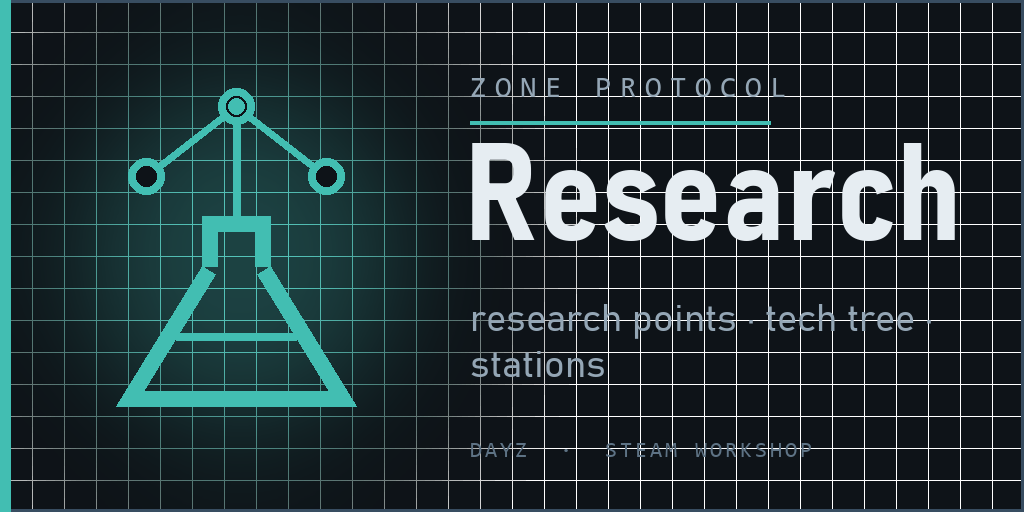
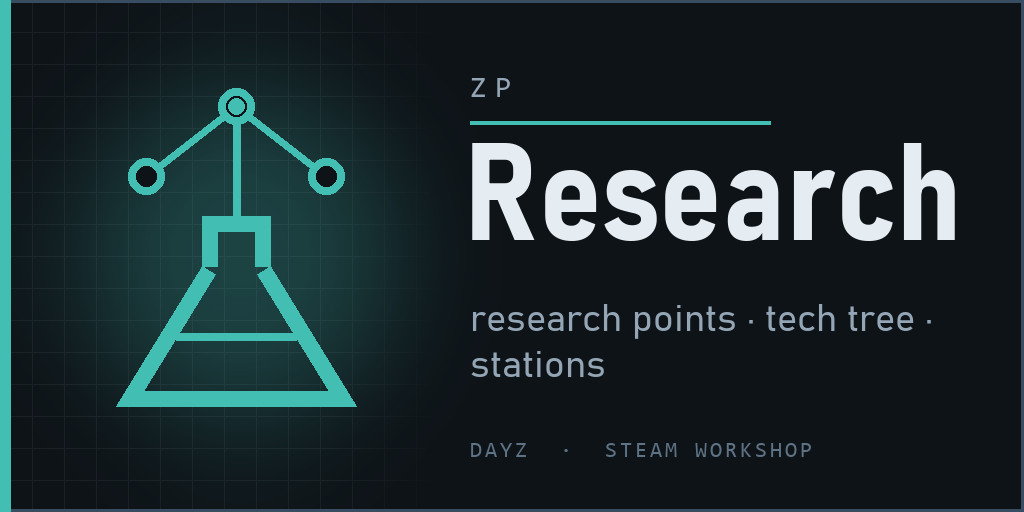
Packaging: readable Workshop titles, previews without the grid under the text
meta.cpp carries the item's Workshop title; the items are renamed from
their folder names to plain ones ("OpenZone Radio for PDA", "... for VPP
Admin Tools"). The preview keeps its grid under the icon only, fading
out before the text column, and names no server.

Changed region(s): [[0.4688, 0.125, 0.7812, 0.1875]]

diff --git a/packaging/ZP_Research_VPP/meta.cpp b/packaging/ZP_Research_VPP/meta.cpp
@@ -1,3 +1,3 @@
 protocol = 1;
 publishedid = 3802267228;
-name = "ZP_Research_VPP";
+name = "ZP Research for VPP Admin Tools";

diff --git a/packaging/ZP_Research/meta.cpp b/packaging/ZP_Research/meta.cpp
@@ -1,3 +1,3 @@
 protocol = 1;
 publishedid = 3802266917;
-name = "ZP_Research";
+name = "ZP Research";
